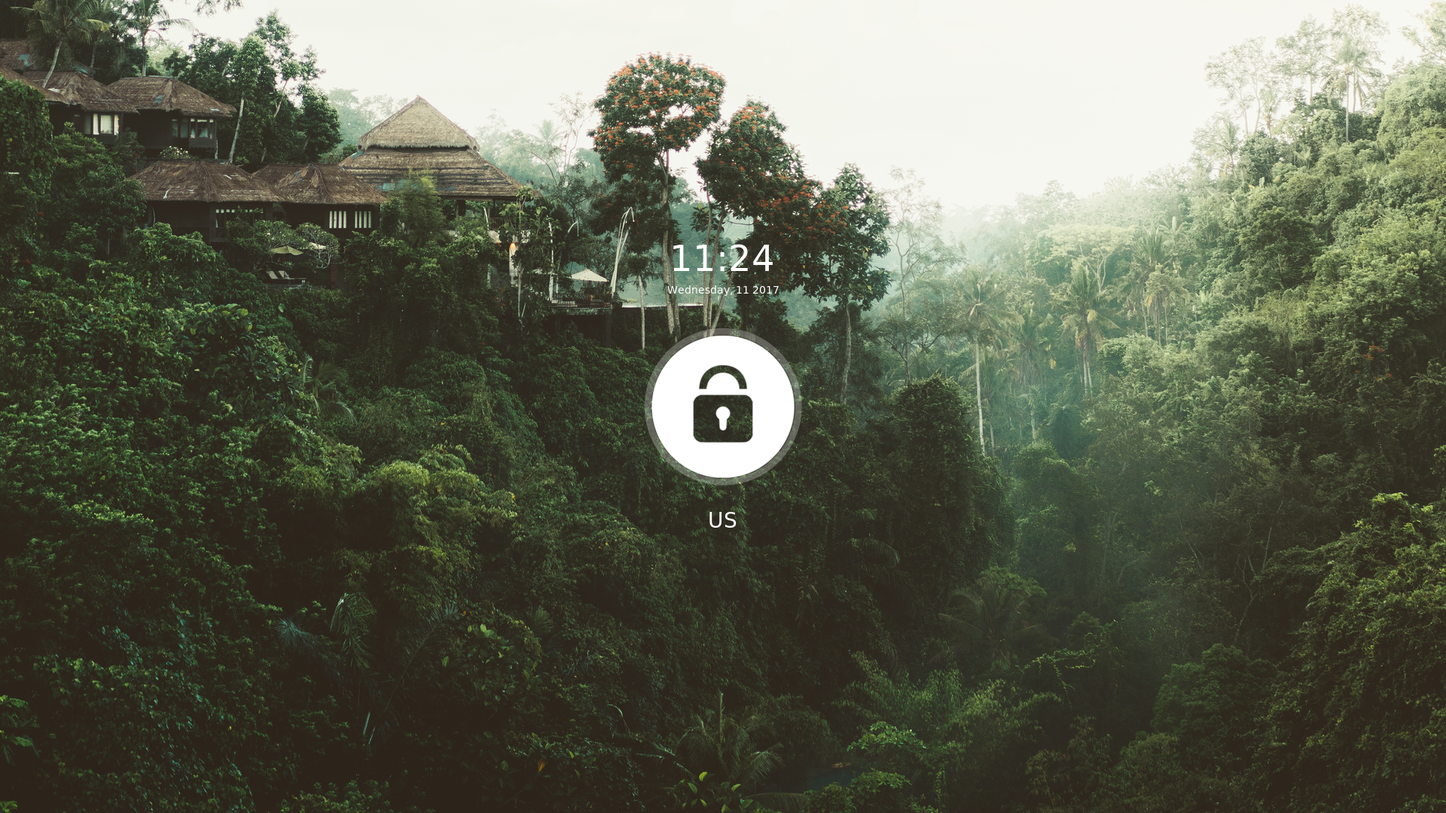
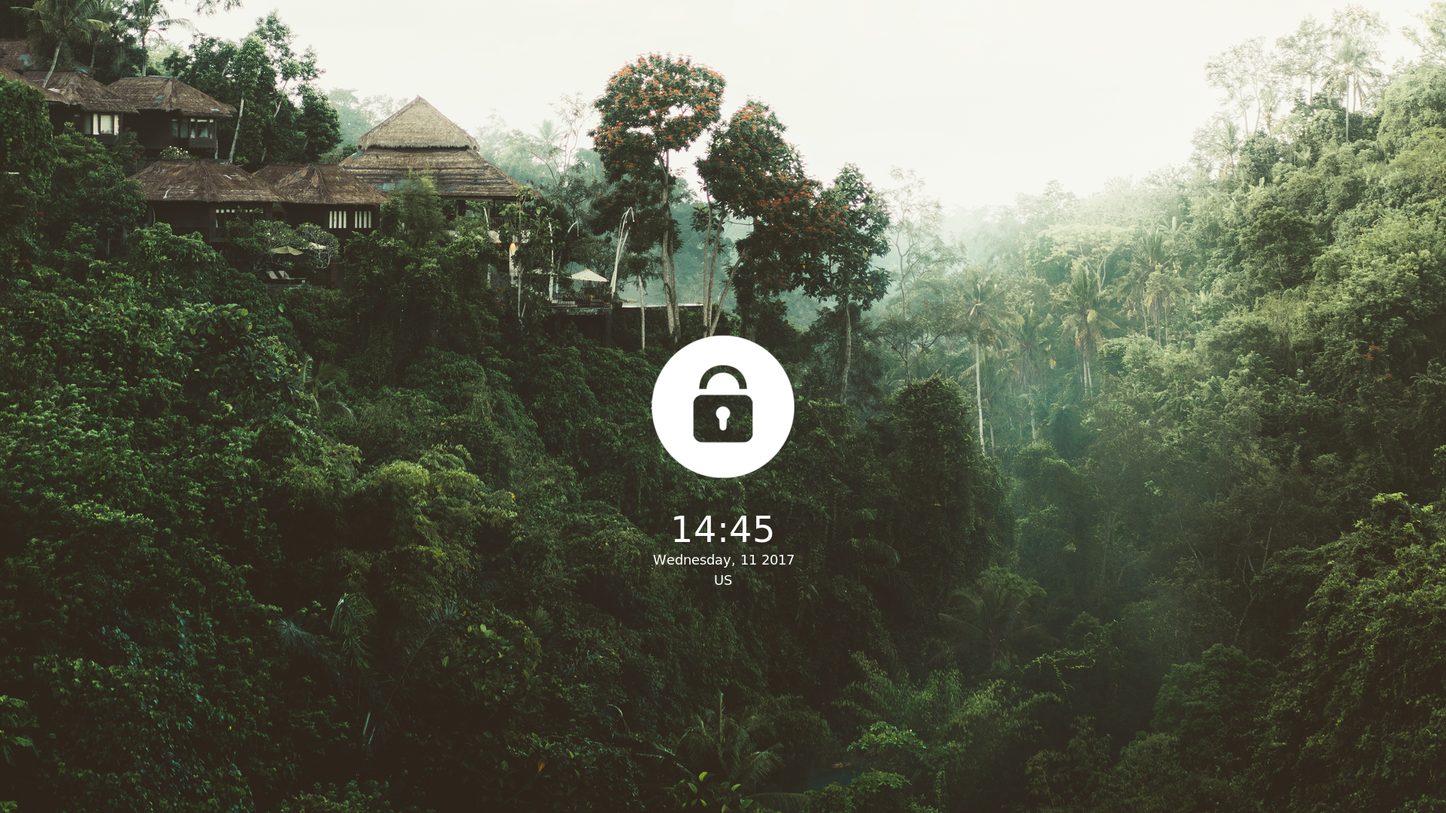
updated screenshots

diff --git a/unlock_indicator.c b/unlock_indicator.c
@@ -284,7 +284,6 @@ xcb_pixmap_t draw_image(uint32_t *resolution) {
 	/* https://github.com/ravinrabbid/i3lock-clock/commit/0de3a411fa5249c3a4822612c2d6c476389a1297 */
 	time_t rawtime;
 	struct tm* timeinfo;
-	bool unlock_indic_text = false;
 	time(&rawtime);
 	timeinfo = localtime(&rawtime);
 
@@ -405,7 +404,6 @@ xcb_pixmap_t draw_image(uint32_t *resolution) {
 		}
 
 		if (text) {
-			unlock_indic_text = true;
 			cairo_text_extents_t extents;
 			double x, y;
 
@@ -549,7 +547,7 @@ xcb_pixmap_t draw_image(uint32_t *resolution) {
 		cairo_stroke(ctx);
 	}
 
-	if (show_clock && !unlock_indic_text) {
+	if (show_clock) {
 		char *text = NULL;
 		char *date = NULL;
 		char time_text[40] = {0};

diff --git a/settings.c b/settings.c
@@ -109,6 +109,8 @@ int read_config(char * file)
 	wordexp(file, &p, 0);
 	w = p.we_wordv;
 
+	printf("DEBUG: loading configuration from %s\n", w[0]);
+
 	/** open config file **/
 	config = ini_load(w[0]);
 	if (!config) {

diff --git a/README.md b/README.md
@@ -5,20 +5,26 @@ This fork combines features of [i3lock-color](https://github.com/chrjguill/i3loc
 and [this i3lock fork](https://github.com/cac03/i3lock/commits/master) to
 create my ultimate lockscreen experience.
 
-Drawbacks:
-* I don't know how to work with OpenBSD, so I removed all BSD-related stubs
-* Also, removed blur. Don't really need it, maybe will add it later, after
-major code refactor.
 
 Features:
+* Separated configuration variables and more cleaner code in future
 * Loading configurations from .ini config files with [this library](https://github.com/rxi/ini)
-* Keyboard indicator and Caps Lock layout
-* Separated configuration variables
+* Keyboard indicator and Caps Lock layout:
+
+![Feature showcase](https://raw.githubusercontent.com/SuperPrower/i3lock-fancier/master/feature.png)
 
 Just copy test_config.ini to $HOME/.config/i3lock-fancier/config.ini and
 configure it as you like using provided commentaries.
 
+i3lock-fancier is almost completely compatible with i3lock-color, and you can
+port your fany config and have cool screenshots like this:
+
 ![Cool Screenshot](https://raw.githubusercontent.com/SuperPrower/i3lock-fancier/master/screenshot.png)
+
+Keep in mind:
+* I don't know how to work with OpenBSD, so I removed all BSD-related code
+* Also, removed blur. Don't really need it, maybe will add it later, after
+major code refactor.
 
 Dependencies are mostly inherited from i3lock-color:
 * Arch: install `cairo, libev, libx11, pam, xcb-util-image, xcb-util-keysyms, libxkbcommon-x11`
